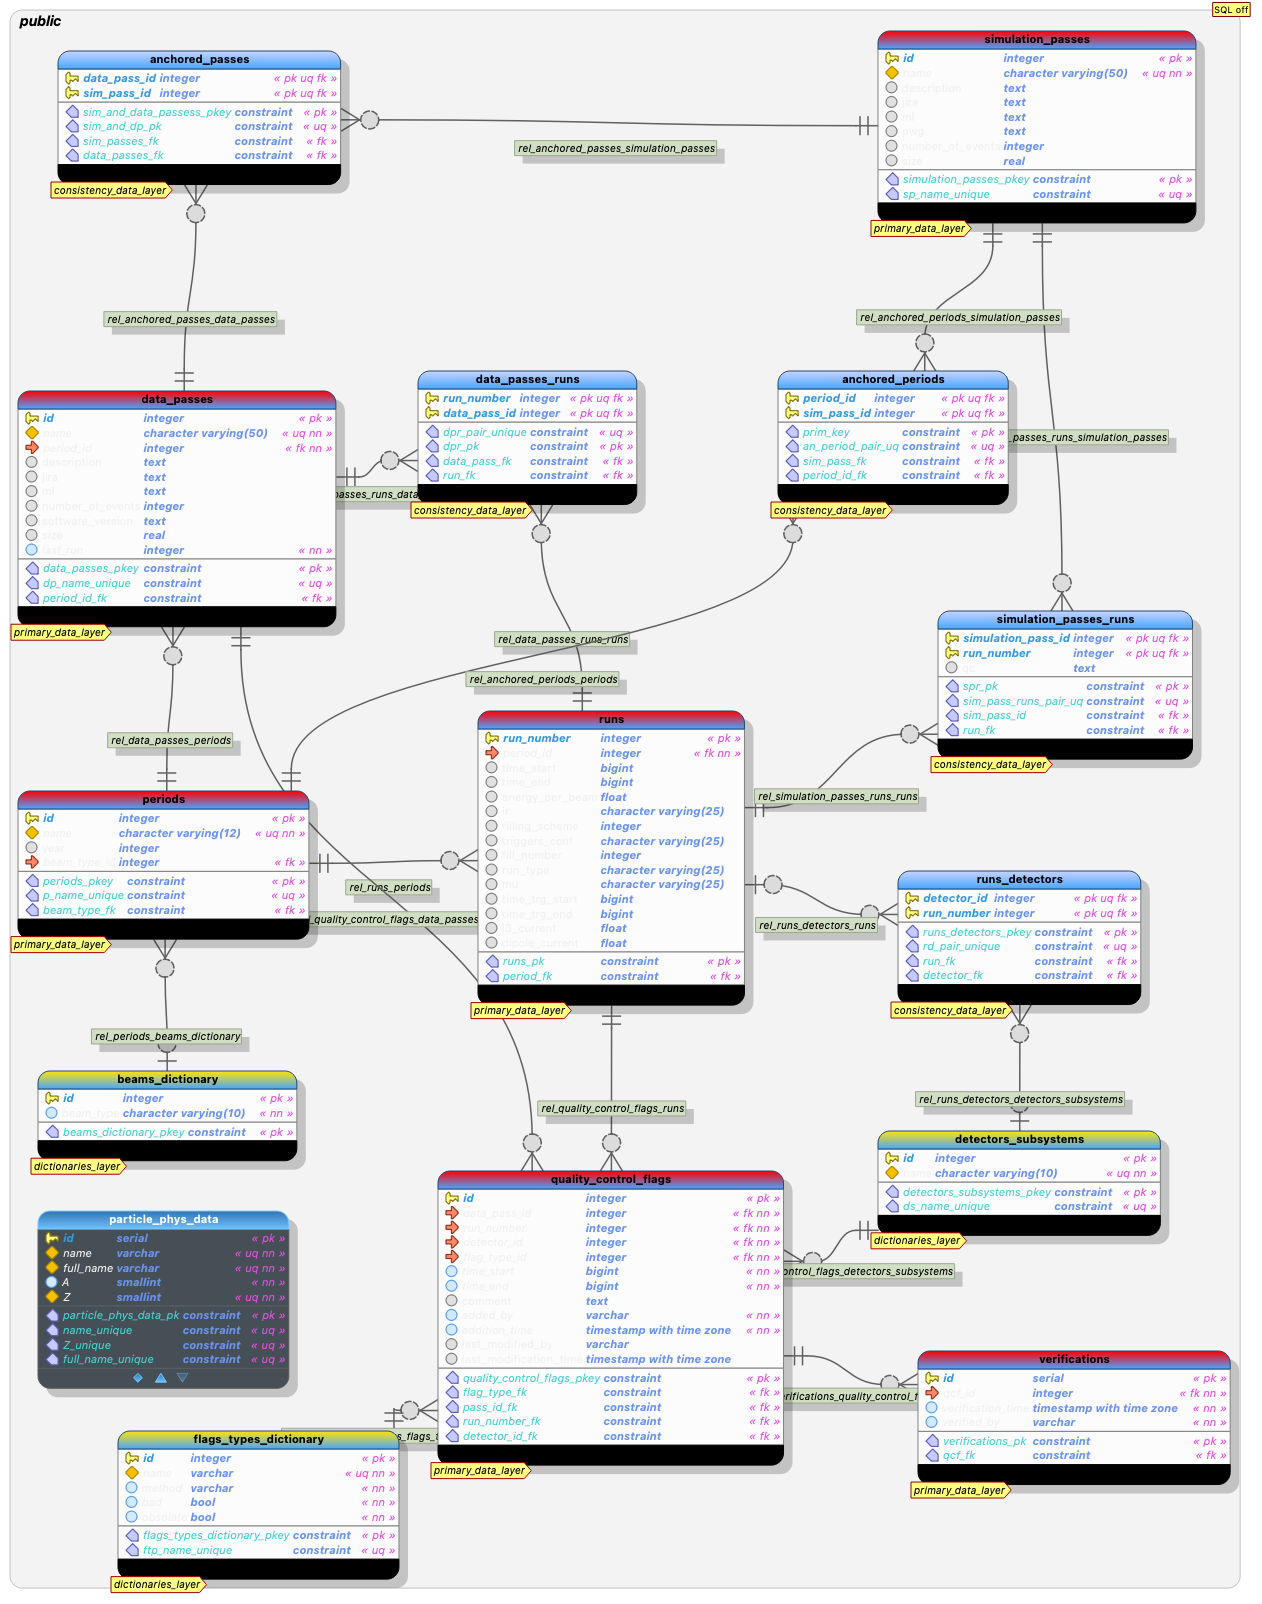
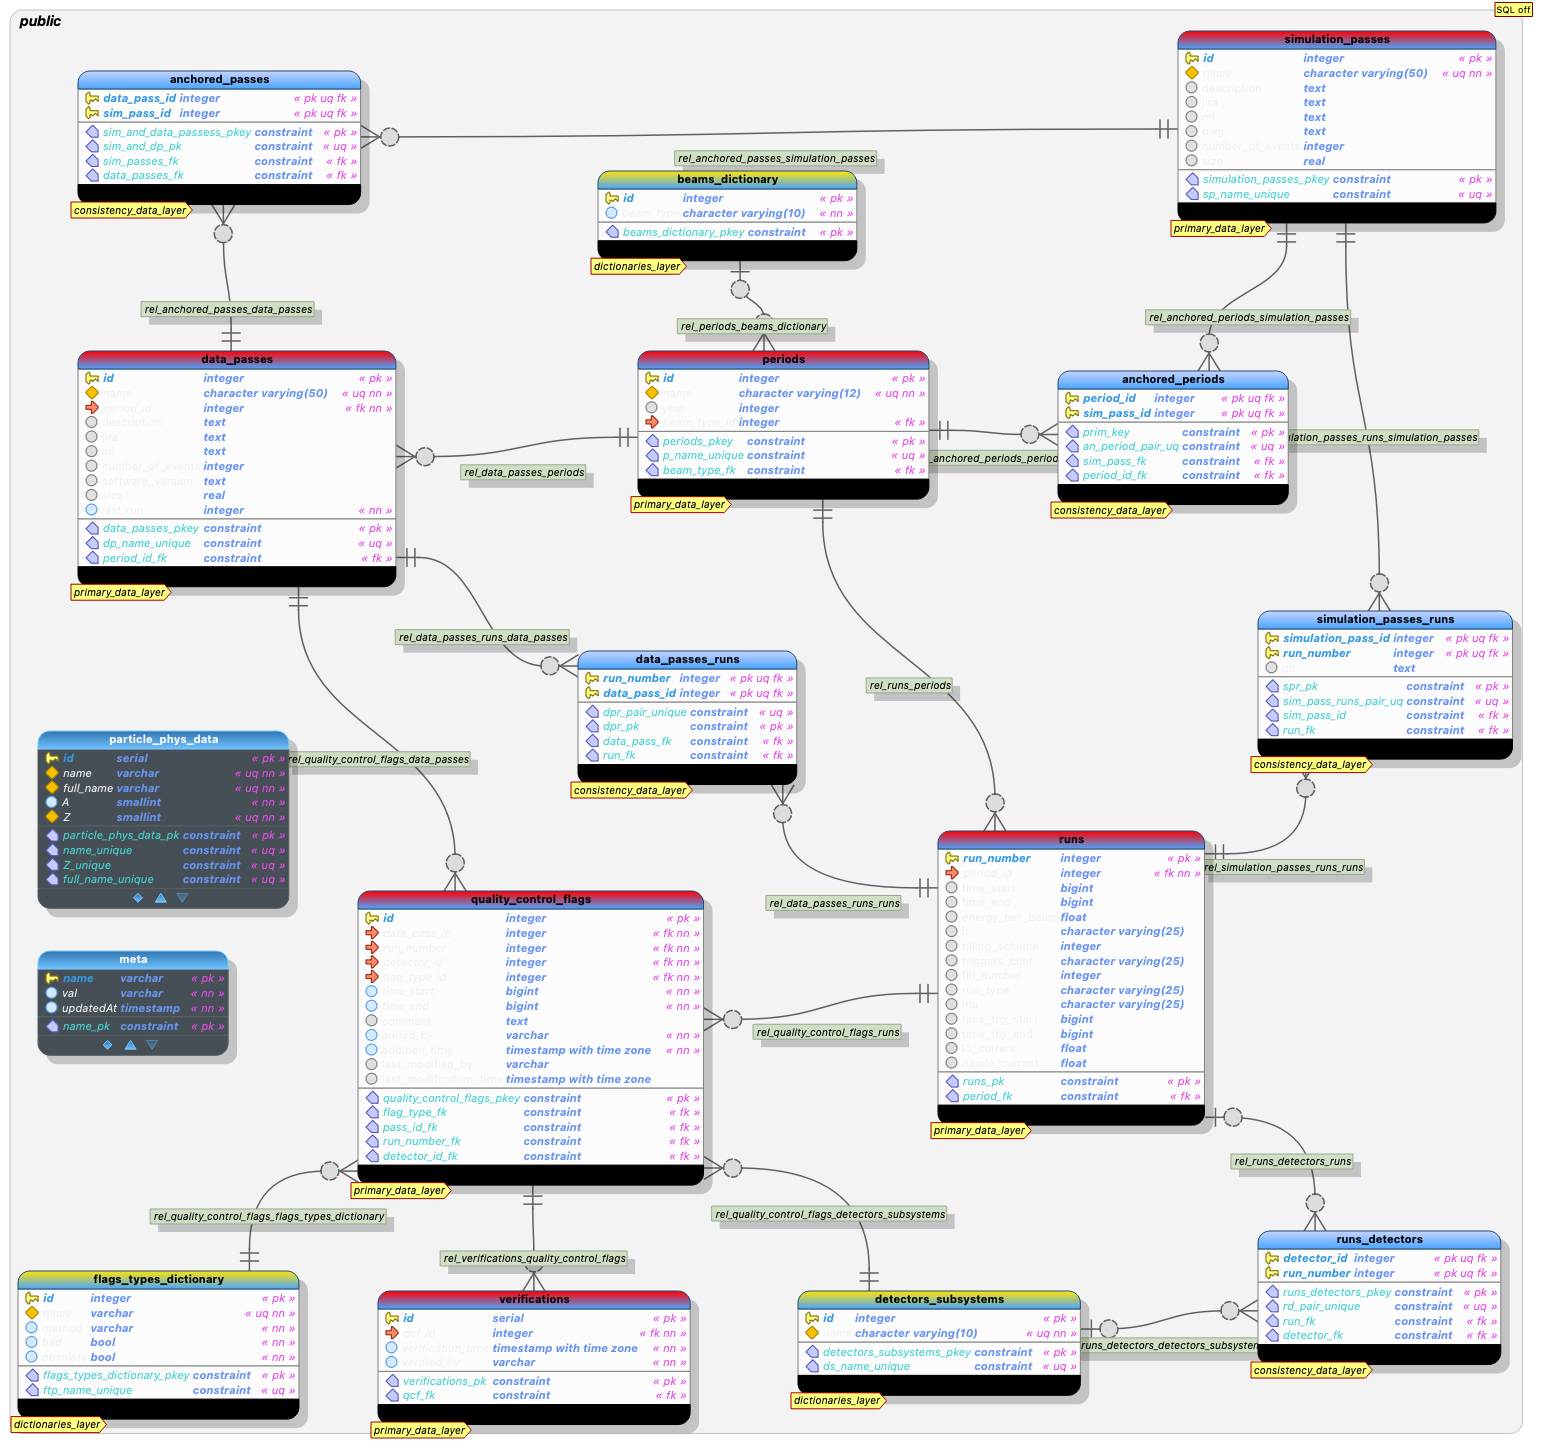
healthcheck queries refactor, db design - added table for meta data

diff --git a/app/config/rct-data/healthcheckQueries.js b/app/config/rct-data/healthcheckQueries.js
@@ -17,20 +17,29 @@ const flags = require('./flags.json');
 const physicalParticlesData = require('./physicalParticlesData.js');
 
 const healthcheckQueries = {
-    detectors: {
-        description: 'detectors dict insert',
-        query: detectors.map((d) => `INSERT INTO detectors_subsystems("id", "name") VALUES (DEFAULT, '${d}');`),
-    },
-    particle: {
-        description: 'particles dict insert',
-        query: Object.entries(physicalParticlesData).map(([name, d]) => `INSERT INTO particle_phys_data("id", "name", "full_name", "A", "Z")
+    insert: {
+        detectors: {
+            description: 'Detectors dict insert',
+            query: detectors.map((d) => `INSERT INTO detectors_subsystems("id", "name") VALUES (DEFAULT, '${d}');`),
+        },
+        particle: {
+            description: 'Particles dict insert',
+            query: Object.entries(physicalParticlesData).map(([name, d]) => `INSERT INTO particle_phys_data("id", "name", "full_name", "A", "Z")
                 VALUES (DEFAULT, '${name}', '${d.full_name}', ${d.A}, ${d.Z});`),
-    },
-    flags: {
-        description: 'flags types dict insert',
-        query: flags.map((f) => `INSERT INTO flags_types_dictionary("id", "name", "method", "bad", "obsolate")
+        },
+        flags: {
+            description: 'Flags types dict insert',
+            query: flags.map((f) => `INSERT INTO flags_types_dictionary("id", "name", "method", "bad", "obsolate")
                 VALUES (${f.id}, '${f.name}', '${f.method}', ${f.bad}::bool, ${f.obsolete}::bool);`),
+        },
     },
+
+    read: {
+        lastUpdate: {
+            description: 'Check time of last update',
+            query: 'SELECT val'
+        }
+    }
 };
 
 const suppressHealthcheckLogs = (process.env['RCT_SUPRESS_HEALTHCECK_LOGS']?.toLowerCase() || 'true') == 'true';

diff --git a/app/lib/database/DatabaseService.js b/app/lib/database/DatabaseService.js
@@ -209,15 +209,15 @@ class DatabaseService {
         this.adminClient.on('error', (e) => this.logger.error(e));
 
         await this.adminClient.connect()
-            .then(() => this.healthcheck())
+            .then(() => this.healthcheckInsertData())
             .catch((e) => {
                 this.logger.error(`error when trying to establish admin connection with ${config.database.host}::\n ${e.stack}`);
             });
     }
 
-    async healthcheck() {
-        for (const [d, def] of Object.entries(config.rctData.healthcheckQueries)) {
-            this.logger.info(`healthcheck for ${def.description}`);
+    async healthcheckInsertData() {
+        for (const [d, def] of Object.entries(config.rctData.healthcheckQueries.insert)) {
+            this.logger.info(`healthcheck : ${def.description}`);
             for (const q of def.query) {
                 const logger = config.rctData.suppressHealthcheckLogs ? null : (e) => this.logger.error(e.stack)
                 await this.pgExec(q, logger, null, logger)

diff --git a/app/application.js b/app/application.js
@@ -83,7 +83,7 @@ class RunConditionTableApplication {
             };
             Utils.switchCase(cmdAndArgs[0], {
                 '': () => {},
-                hc: () => this.databaseService.healthcheck(),
+                hc: () => this.databaseService.healthcheckInsertData(),
                 users: () => {
                     this.con.log(this.databaseService.loggedUsers);
                 },
@@ -149,8 +149,7 @@ class RunConditionTableApplication {
     }
 
     async setSyncAllTask() {
-        this.syncAll();
-        this.syncAllTask = setInterval(this.syncAll, 24 * 60 * 60 * 1000); // Ones per day
+        this.syncAllTask = setInterval(this.syncAll.bind(this), 24 * 60 * 60 * 1000); // Ones per day
     }
 
     async clearSyncAllTask() {

diff --git a/test/database/utilities/DataBaseService.test.js b/test/database/utilities/DataBaseService.test.js
@@ -23,7 +23,7 @@ module.exports = () => {
             it('should connect to the database successfully', () => {
                 assert.doesNotThrow(async () => {
                     await databaseService.getDate();
-                    await databaseService.healthcheck();
+                    await databaseService.healthcheckInsertData();
                 });
             });
         });
